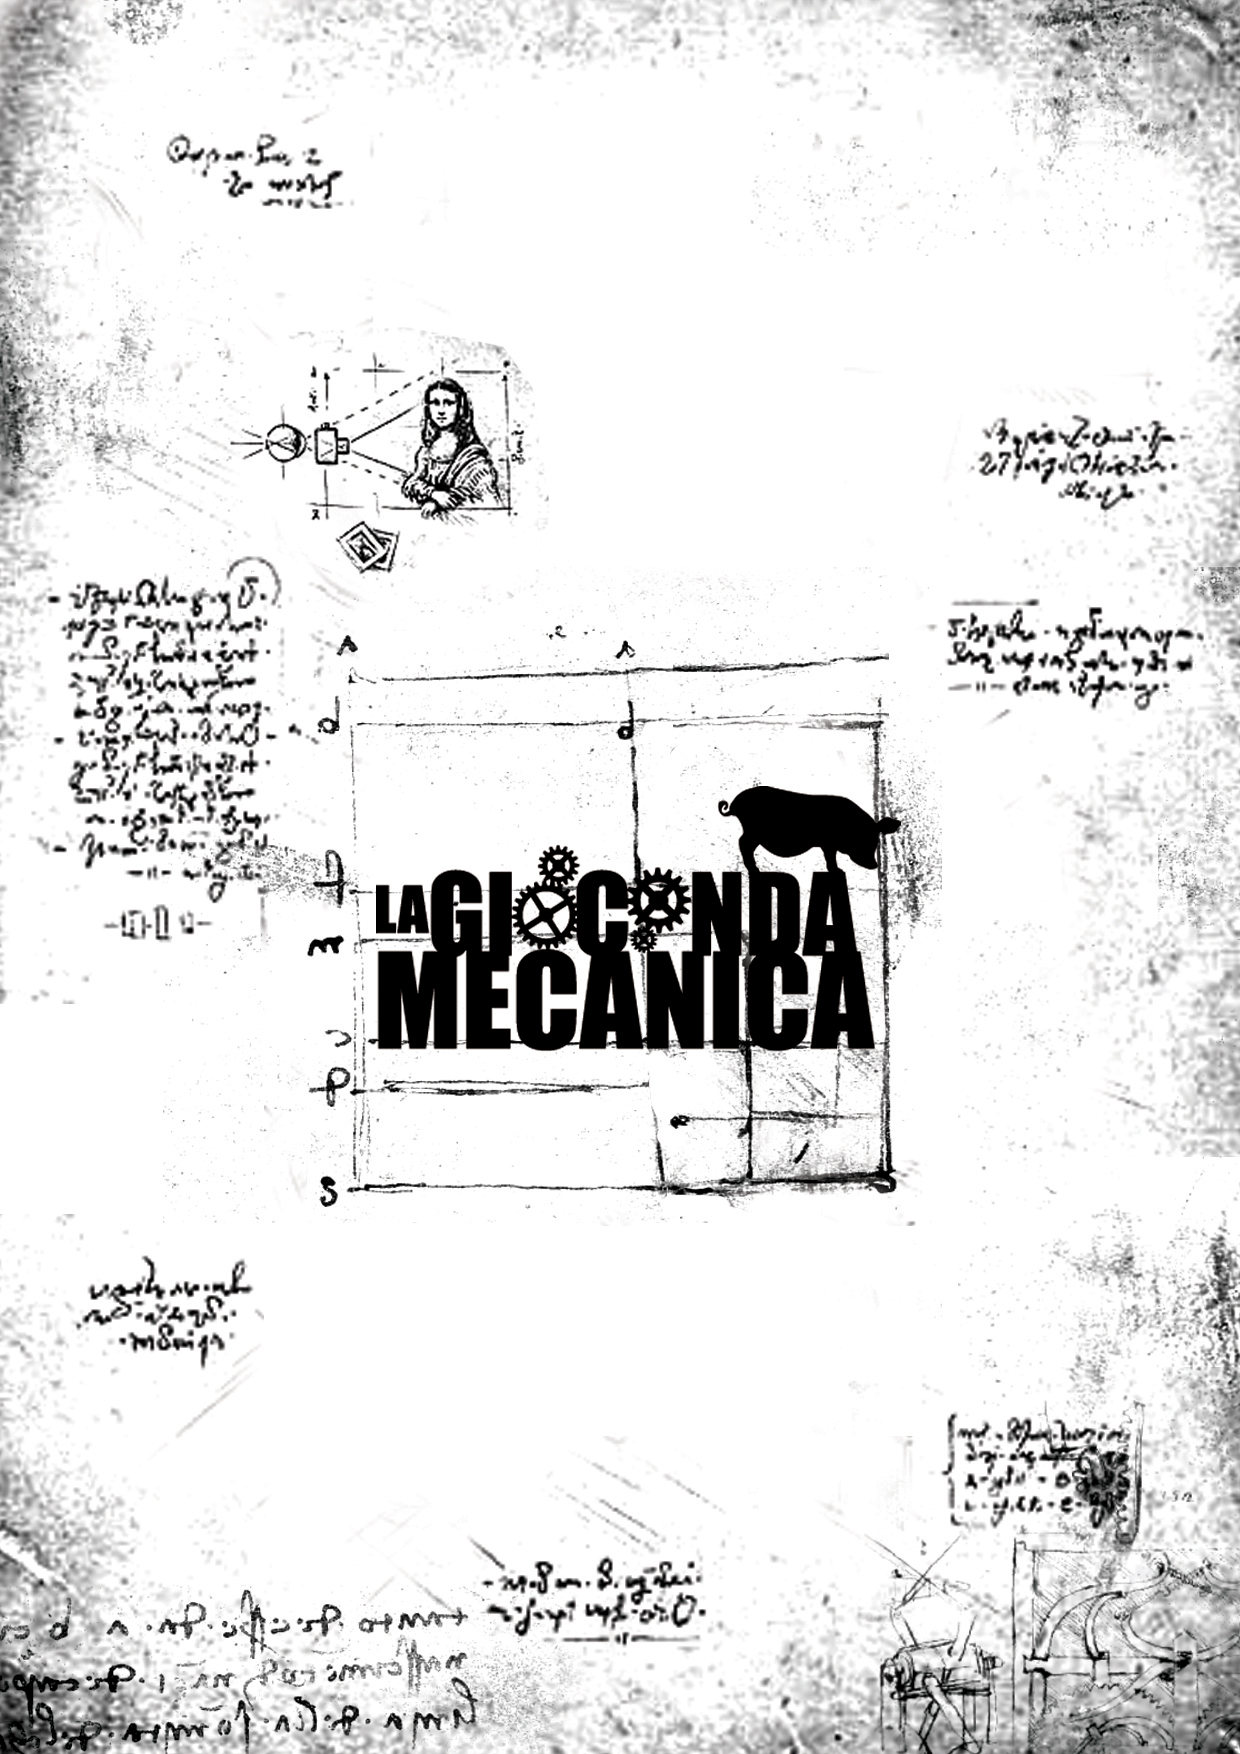
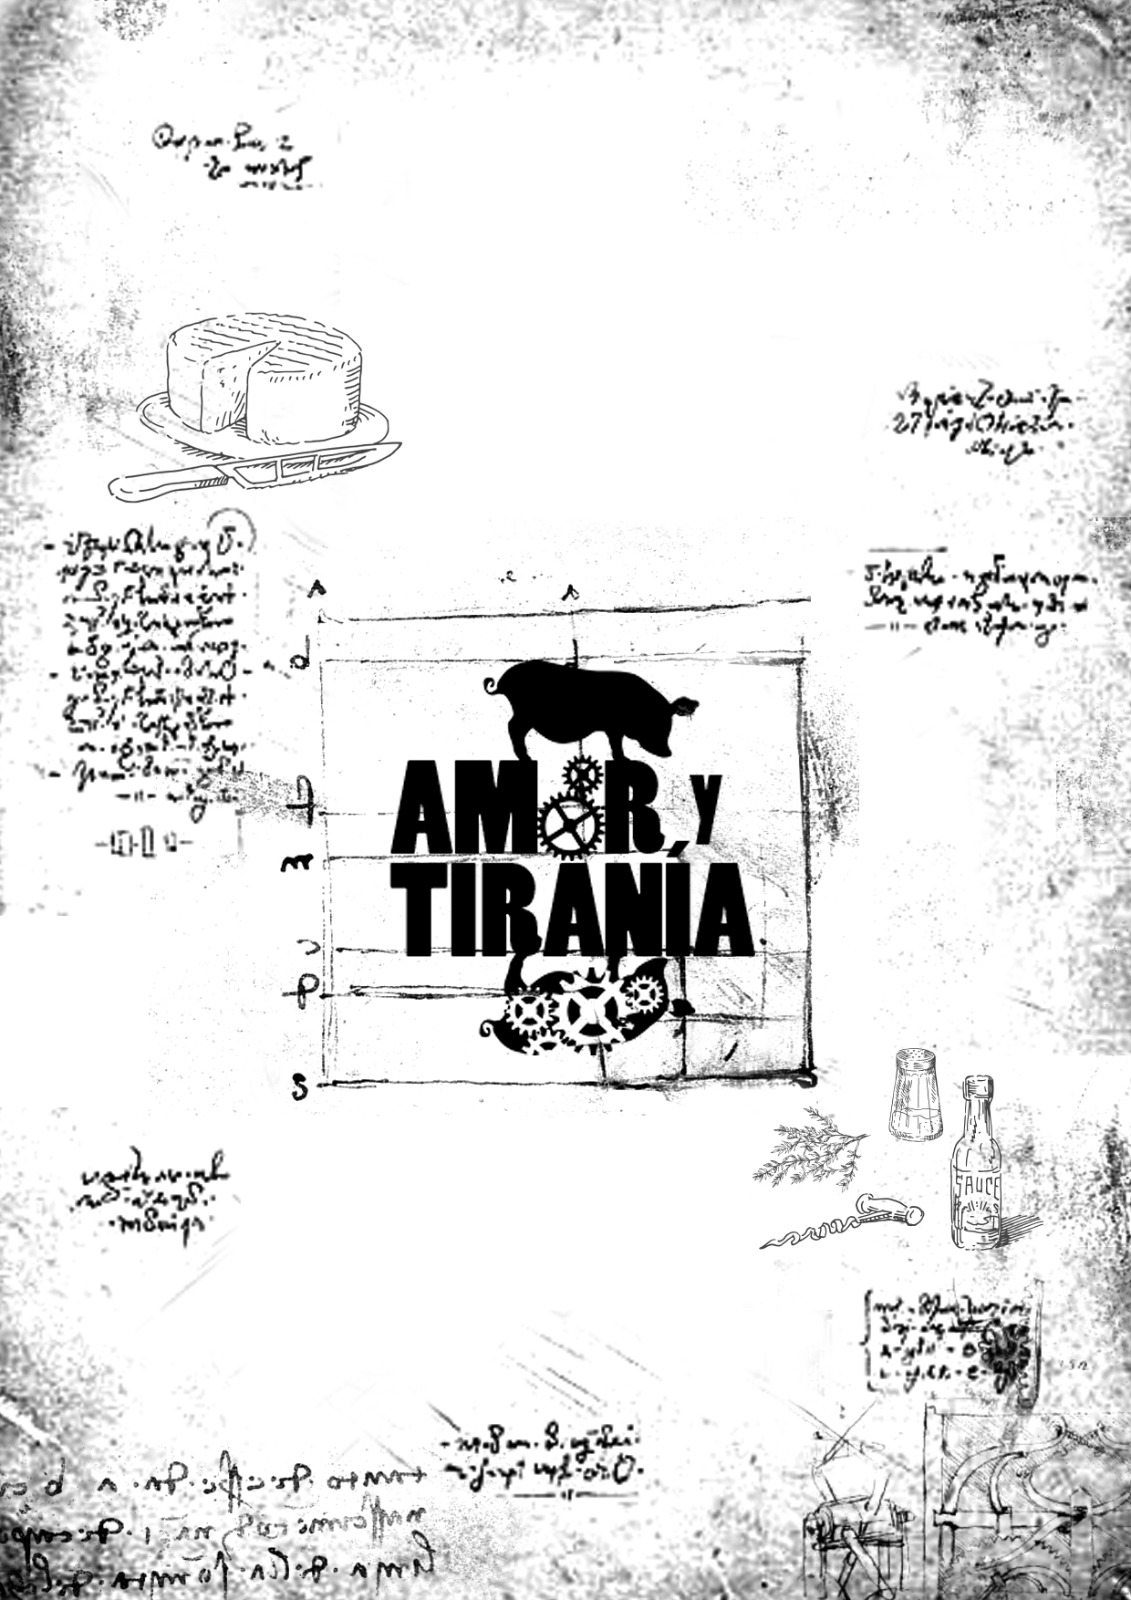
correcciones

Changed region(s): [[0.2785, 0.4062, 0.7118, 0.6562], [0.0928, 0.1875, 0.4332, 0.3438], [0.6808, 0.6562, 0.9284, 0.7812]]

diff --git a/html/laGiocondaMecanica.html b/html/laGiocondaMecanica.html
@@ -48,8 +48,9 @@
         </div>
         <!-- Texto indicativo de la sección -->
         <div class="section-label">
-             <h1>LA GIOCONDA <br>
-                MECÁNICA
+             <h1>
+                AMOR Y TIRANÍA
+                
              </h1> 
             <h2>Teatro</h2>
     
@@ -78,7 +79,7 @@
      
         <div class="sub caja21">
             <h1 class="titulo">
-                LA GIOCONDA MECÁNICA
+                AMOR Y TIRANÍA
 
             </h1>
             <p class="texto">
@@ -119,10 +120,10 @@
 <section class="flex-container-prensa">
 
    
-    <div class="caja2-prensa">
+    <!-- <div class="caja2-prensa">
         <img src="../img/individuales/laGiconda/trailer.jpg" alt="">
 
-    </div>
+    </div> -->
 
 
 

diff --git a/html/teatro.html b/html/teatro.html
@@ -100,7 +100,7 @@
                             <a href="../html/laGiocondaMecanica.html" class="card-link">
                                 <img src="../img/teatro/LA GIOCONDA poster CARTEL.jpg" class="card-img-top" alt="Película 1">
                                 <div class="card-info">
-                                    <h5 class="card-title">LA GIOCONDA MECÁNICA</h5>
+                                    <h5 class="card-title">AMOR Y TIRANÍA</h5>
                                     
                                 </div>
                             </a>

diff --git a/html/series.html b/html/series.html
@@ -86,7 +86,7 @@
                             <a href="../html/circulo.html" class="card-link">
                                 <img src="../img/series/elcirculo.jpg" class="card-img-top" alt="Película 1">
                                 <div class="card-info">
-                                    <h5 class="card-title">EL CIRCULO</h5>
+                                    <h5 class="card-title">TUS AMIGOS DE SIEMPRE</h5>
                                     
                                 </div>
                             </a>

diff --git a/html/circulo.html b/html/circulo.html
@@ -40,7 +40,9 @@
     </div>
     <!-- Texto indicativo de la sección -->
     <div class="section-label">
-        <h1>EL CÍRCULO</h1>
+        <h1>TUS AMIGOS <br>
+            DE SIEMPRE
+        </h1>
         <h2>Series</h2>
 
     </div>
@@ -69,7 +71,8 @@
         
         <div class="sub caja21">
             <h1 class="titulo">
-                EL CÍRCULO
+                TUS AMIGOS 
+                DE SIEMPRE
 
             </h1>
             <p class="texto">
